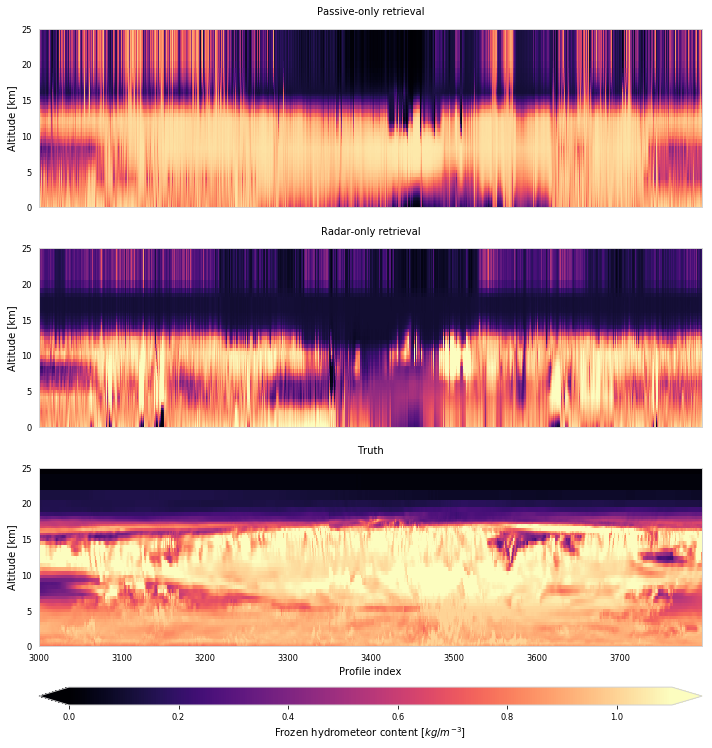
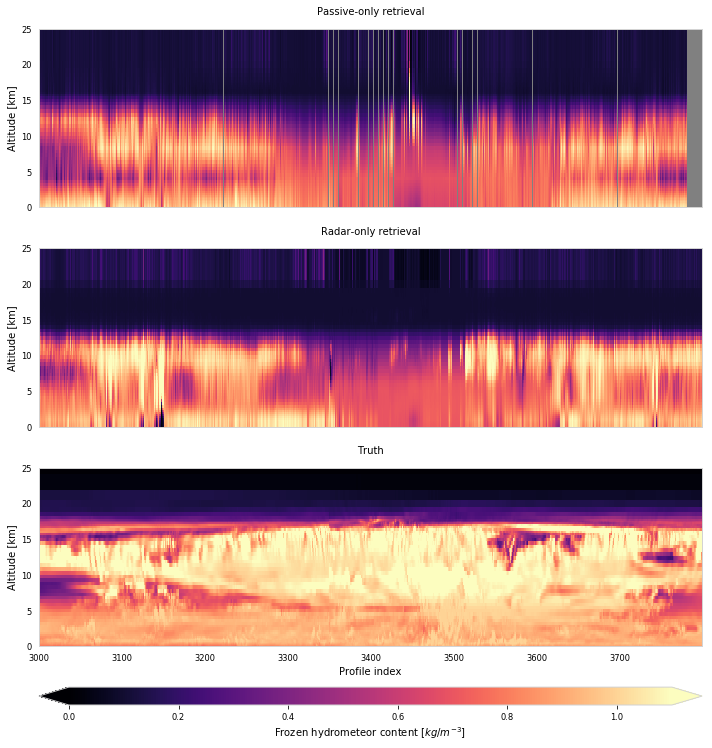
Added a priori for single species retrievals.

Changed region(s): [[0.0309, 0.0307, 0.9888, 0.2767], [0.0309, 0.3075, 0.9888, 0.5842], [0.3399, 0.3075, 0.5562, 0.3997]]

diff --git a/crac/liras/single_species.py b/crac/liras/single_species.py
@@ -1,0 +1,103 @@
+
+import os
+from crac.psds                import D14NDmIce, D14NDmLiquid
+from crac.hydrometeors        import Hydrometeor
+from parts.retrieval.a_priori import *
+from parts.scattering.psd     import Binned
+from parts.jacobian           import Atanh, Log10, Identity, Composition
+
+liras_path = os.environ["LIRAS_PATH"]
+scattering_data = os.path.join(liras_path, "data", "scattering")
+
+################################################################################
+# Ice particles
+################################################################################
+
+def n0_a_priori(t):
+    t = t - 272.15
+    return np.log10(np.exp(-0.076586 * t + 17.948))
+
+def dm_a_priori(t):
+    n0 = 10 ** n0_a_priori(t)
+    iwc = 1e-6
+    dm = (4.0 ** 4 * iwc / (np.pi * 917.0)  / n0) ** 0.25
+    return dm
+
+ice_shape      = os.path.join(scattering_data, "8-ColumnAggregate.xml")
+ice_shape_meta = os.path.join(scattering_data, "8-ColumnAggregate.meta.xml")
+ice_mask       = And(TropopauseMask(), TemperatureMask(0.0, 273.0))
+
+ice_covariance  = Diagonal(200e-6 ** 2, mask = ice_mask, mask_value = 1e-12)
+ice_covariance  = SpatialCorrelation(ice_covariance, 1e3)
+ice_dm_a_priori = FunctionalAPriori("ice_dm", "temperature", dm_a_priori, ice_covariance,
+                                    mask = ice_mask, mask_value = 1e-8)
+
+ice_covariance  = Diagonal(4, mask = ice_mask, mask_value = 1e-12)
+ice_covariance  = SpatialCorrelation(ice_covariance, 1e3)
+ice_n0_a_priori = FixedAPriori("ice_n0", 10, ice_covariance, mask = ice_mask, mask_value = 2)
+
+ice = Hydrometeor("ice", D14NDmIce(), [ice_n0_a_priori, ice_dm_a_priori], ice_shape, ice_shape_meta)
+ice.transformations = [Log10(), Identity()]
+ice.limits_low = [2, 1e-8]
+
+################################################################################
+# Snow particles
+################################################################################
+
+snow_shape      = os.path.join(scattering_data, "EvansSnowAggregate.xml")
+snow_shape_meta = os.path.join(scattering_data, "EvansSnowAggregate.meta.xml")
+snow_mask       = And(TropopauseMask(), TemperatureMask(0.0, 278.0))
+
+snow_covariance = Diagonal(500e-6 ** 2, mask = snow_mask, mask_value = 1e-12)
+snow_covariance  = SpatialCorrelation(snow_covariance, 1e3)
+snow_dm_a_priori = FixedAPriori("snow_dm", 1e-3, snow_covariance,
+                                mask = snow_mask, mask_value = 1e-8)
+
+snow_covariance  = Diagonal(4, mask = snow_mask, mask_value = 1e-12)
+snow_covariance  = SpatialCorrelation(snow_covariance, 1e3)
+snow_n0_a_priori = FixedAPriori("snow_n0", 7, snow_covariance, mask = snow_mask, mask_value = 2)
+
+snow = Hydrometeor("snow", D14NDmIce(), [snow_n0_a_priori, snow_dm_a_priori], snow_shape, snow_shape_meta)
+snow.transformations = [Log10(), Identity()]
+snow.limits_low = [0, 1e-8]
+
+################################################################################
+# Rain particles
+################################################################################
+
+rain_shape      = os.path.join(scattering_data, "LiquidSphere.xml")
+rain_shape_meta = os.path.join(scattering_data, "LiquidSphere.meta.xml")
+
+rain_mask  = TemperatureMask(273, 340.0)
+rain_covariance = Diagonal(500e-6 ** 2, mask = rain_mask, mask_value = 1e-12)
+rain_dm_a_priori = FixedAPriori("rain_dm", 500e-6, rain_covariance, mask = rain_mask, mask_value = 1e-8)
+rain_dm_a_priori = MaskedRegularGrid(rain_dm_a_priori, 10, rain_mask, "altitude", provide_retrieval_grid = False)
+
+z_grid = np.linspace(0, 12e3, 7)
+rain_covariance = Diagonal(1, mask = rain_mask, mask_value = 1e-12)
+rain_n0_a_priori = FixedAPriori("rain_n0", 7, rain_covariance, mask = rain_mask, mask_value = 2)
+rain_n0_a_priori = MaskedRegularGrid(rain_n0_a_priori, 4, rain_mask, "altitude", provide_retrieval_grid = False)
+
+rain = Hydrometeor("rain", D14NDmLiquid(), [rain_n0_a_priori, rain_dm_a_priori], rain_shape, rain_shape_meta)
+rain.transformations = [Composition(Log10(), PiecewiseLinear(rain_n0_a_priori)),
+                        Composition(Identity(), PiecewiseLinear(rain_dm_a_priori))]
+rain.limits_low = [2, 1e-8]
+rain.radar_only = True
+
+################################################################################
+# Humidity
+################################################################################
+
+def a_priori_shape(t):
+    transformation = Atanh()
+    transformation.z_max = 1.2
+    transformation.z_min = -0.1
+    x = np.maximum(np.minimum(0.7 - (270 - t) / 100.0, 0.7), 0.1)
+    return transformation(x)
+
+
+z_grid = np.linspace(0, 20e3, 21)
+rh_covariance = Diagonal(2.0)
+rh_covariance = SpatialCorrelation(rh_covariance, 1e3)
+rh_a_priori = FunctionalAPriori("H2O", "temperature", a_priori_shape, rh_covariance)
+rh_a_priori = ReducedVerticalGrid(rh_a_priori, z_grid, "altitude", provide_retrieval_grid = False)

diff --git a/crac/retrieval.py b/crac/retrieval.py
@@ -8,7 +8,7 @@ from parts.atmosphere.absorption import O2, N2, H2O, CloudWater, RelativeHumidit
 from parts.utils.data_providers  import NetCDFDataProvider
 from parts.scattering.solvers    import Disort
 from parts.simulation            import ArtsSimulation
-from parts.jacobian              import Log10, Atanh, Composition
+from parts.jacobian              import Log10, Atanh, Composition, Identity
 
 class CloudRetrieval:
 
@@ -33,11 +33,13 @@ class CloudRetrieval:
 
         h2o_a = [p for p in self.data_provider.subproviders \
                  if getattr(p, "name", "") == "H2O"][0]
-        atanh = Atanh(0.0, 1.2)
+        atanh = Atanh(-0.2, 1.4)
         pl    = PiecewiseLinear(h2o_a)
-        h2o.transformation      = Composition(atanh, pl)
+        h2o.transformation      = Composition(Identity(), pl)
         h2o.retrieval.unit      = RelativeHumidity()
         self.h2o = h2o
+        h2o.limit_low = 0.0
+        h2o.limit_high = 1.2
 
         if self.include_cloud_water:
             cw = self.simulation.atmosphere.absorbers[-2]

diff --git a/crac/liras/passive_only.py b/crac/liras/passive_only.py
@@ -171,15 +171,18 @@ rain.retrieve_second_moment = True
 ################################################################################
 
 def a_priori_shape(t):
-    transformation = Atanh()
-    transformation.z_max = 1.2
-    transformation.z_min = 0.0
+    #transformation = Atanh()
+    #transformation.z_max = 1.2
+    #transformation.z_min = 0.0
+    transformation = Identity()
     x = np.maximum(np.minimum(0.7 - (270 - t) / 100.0, 0.7), 0.1)
+    x = np.zeros(t.shape)
+    x[:] = 0.5
     return transformation(x)
 
 
-z_grid = np.linspace(0, 20e3, 6)
-rh_covariance = Diagonal(1.0)
+z_grid = np.linspace(0, 20e3, 11)
+rh_covariance = Diagonal(1.0 ** 2)
 rh_a_priori = FunctionalAPriori("H2O", "temperature", a_priori_shape,
                                 rh_covariance)
 rh_a_priori = ReducedVerticalGrid(rh_a_priori, z_grid, "altitude",
